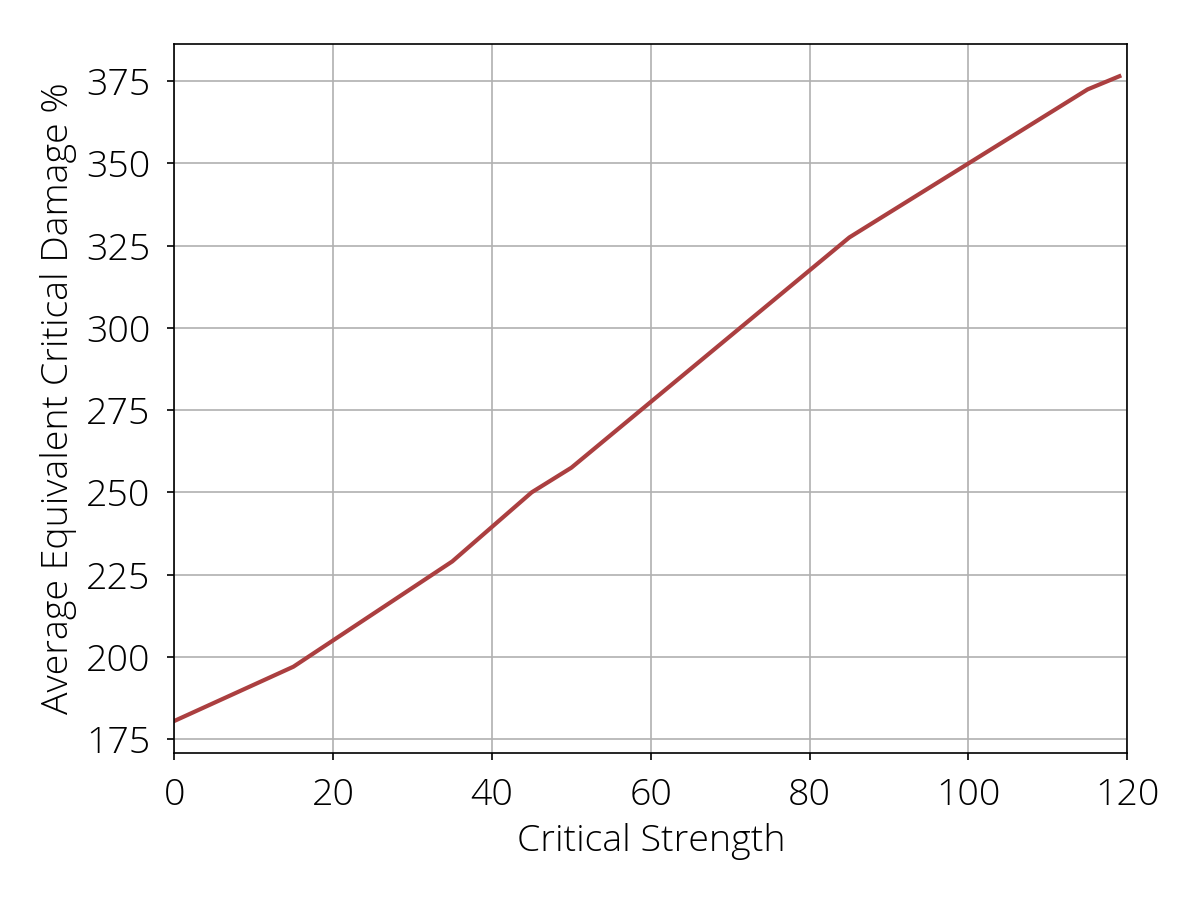
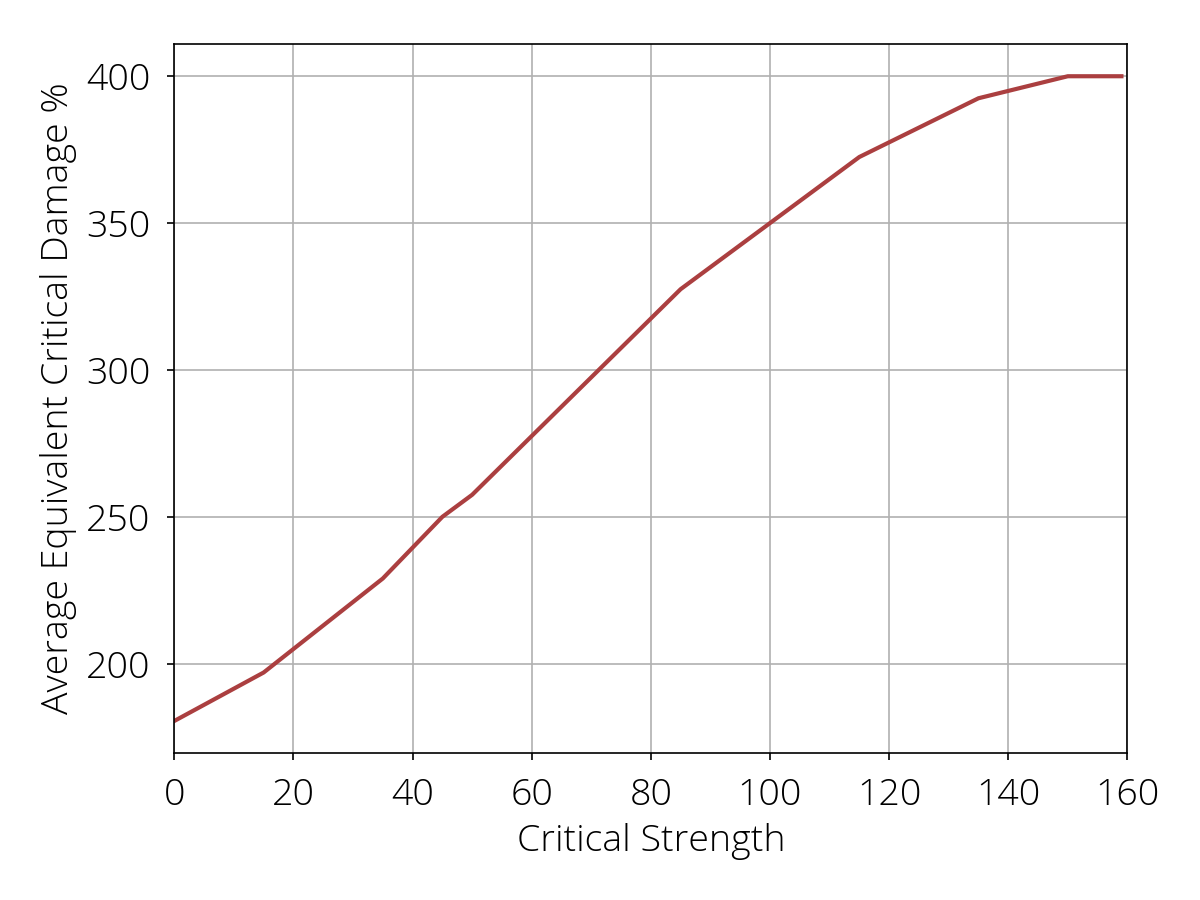
Extended x-axis.

diff --git a/crit-viz.py b/crit-viz.py
@@ -17,38 +17,27 @@ def equivalent_crit_damage(strength_raw):
   # simplified "crit damage equivalent", which is just the expected critical
   # damage value.
   probability_offset = np.clip(breakpoints - strength - 1, 0, 100.)
-  #print(probability_offset)
-  #print('---')
   probability_offset_extended = np.concatenate(
     (probability_offset,
      np.broadcast_to(100., (probability_offset.shape[0],1))),
     axis=1)
-  #print(probability_offset_extended)
-  #print('---')
   probability_mass = np.diff(probability_offset_extended)/100.
-  #print(probability_mass)
-  #print('---')
   # Probability mass should always sum to one.
-  #print(np.sum(probability_mass, axis=1))
   assert(np.all((np.sum(probability_mass, axis=1)-1.0)<0.01))
 
   probability_weighted_crit_damage = probability_mass * coefficients
-  #print(probability_weighted_crit_damage)
-  #print('---')
 
   return np.sum(probability_weighted_crit_damage, axis=1)
 
-#print(equivalent_crit_damage(np.arange(0,120,10)))
-
-
 def plot_it():
-  xs = np.arange(0,120) # caps at 105, but let's visually see the plateau
+  max_x = max(breakpoints)+9 # let's visually see the plateau
+  xs = np.arange(0,max_x)
   ys = equivalent_crit_damage(xs)*100
   (fig,ax) = plt.subplots()
   ax.plot(xs, ys)
   ax.grid(True)
   ax.set_xlabel('Critical Strength')
-  ax.set_xlim(0,120)
+  ax.set_xlim(0,max_x)
   ax.set_ylabel('Average Equivalent Critical Damage %')
   fig.tight_layout()
   fig.savefig('Equivalent_crit_damage.png')
@@ -58,7 +47,7 @@ def plot_it():
   ax.plot(xs[:-1], zs)
   ax.grid(True)
   ax.set_xlabel('Critical Strength')
-  ax.set_xlim(0,120)
+  ax.set_xlim(0,max_x)
   ax.set_ylabel('Critical Damage % per Point of Critical Strength')
   fig.tight_layout()
   fig.savefig('Critical_damage_per_strength.png')
